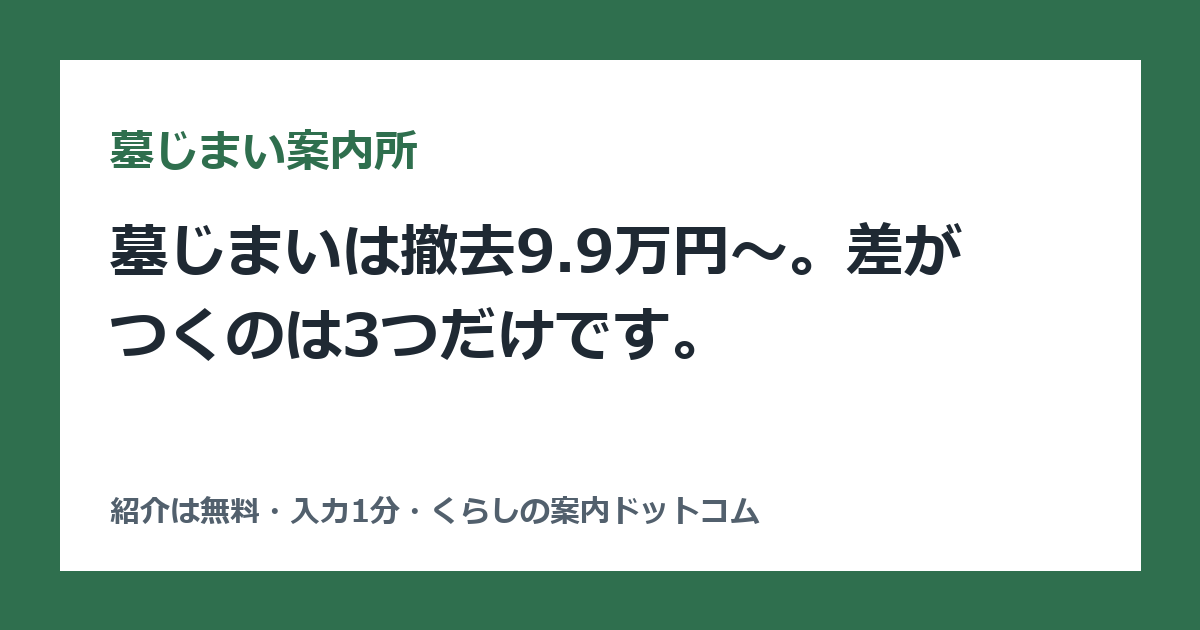
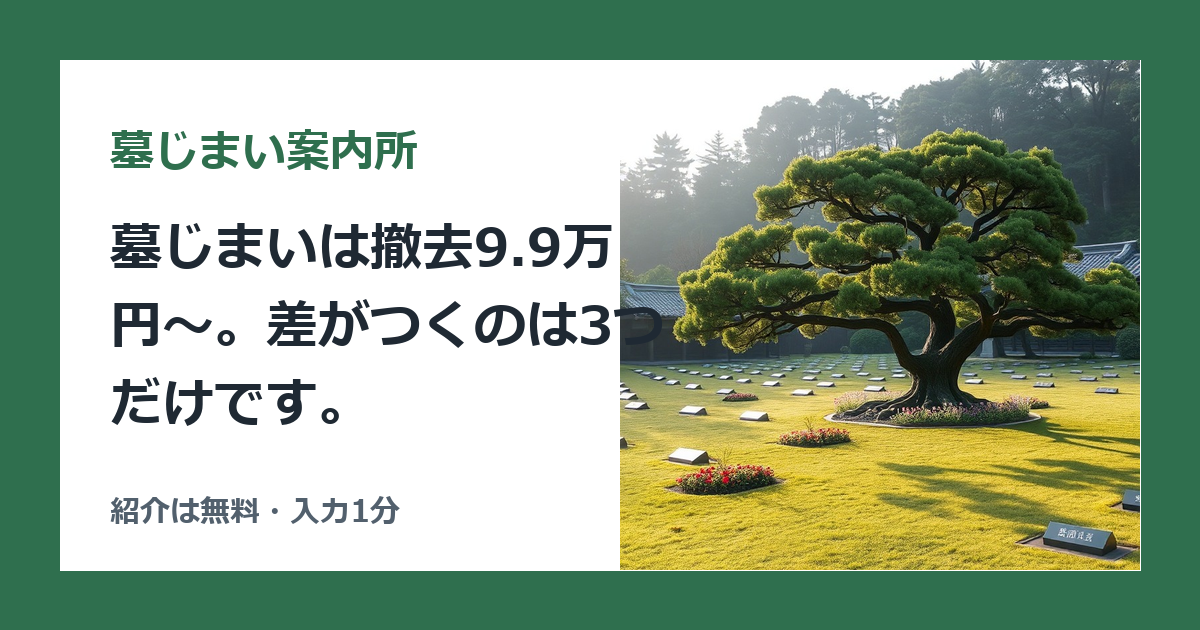
v28: 視覚モード（写真・アイコン・関係図・内訳の横棒・工程・FV段階式フォーム・都道府県→市区町村）

diff --git a/index.html b/index.html
@@ -188,9 +188,99 @@ footer a{color:var(--sub)}
 .ui-reveal .card.in,.ui-reveal ol.steps li.in,.ui-reveal .checks li.in{opacity:1;transform:none}
 body.has-sticky{padding-bottom:72px}
 @media (min-width:600px){.cta-row{grid-template-columns:1fr 1fr}}
+
+/* ---- 視覚モード（visual:true） ---- */
+.v .wrap{max-width:880px}
+.v .hero{display:grid;gap:18px;padding:24px 0 16px}
+.v .hero-media{margin:0;border-radius:16px;overflow:hidden;background:var(--soft);aspect-ratio:16/10}
+.v .hero-media img{display:block;width:100%;height:100%;object-fit:cover}
+.v .hero h1{font-size:27px}
+@media (min-width:800px){.v .hero{grid-template-columns:1.15fr 1fr;align-items:center;padding:36px 0 26px}.v .hero-media{aspect-ratio:auto;height:100%;min-height:320px}.v .hero h1{font-size:34px}}
+.v .checks.two{grid-template-columns:1fr}
+@media (min-width:640px){.v .checks.two{grid-template-columns:1fr 1fr}}
+.v .checks li.ico{padding-left:52px}
+.v .checks li.ico::before{content:none}
+.v .checks li.ico .ic{position:absolute;left:12px;top:9px;width:28px;height:28px;color:var(--accent)}
+.ic{display:inline-block}
+.ic svg{width:100%;height:100%;display:block}
+.v .card{position:relative}
+.v .card>.ic{width:40px;height:40px;color:var(--accent);background:var(--soft);border-radius:10px;padding:8px;margin:0 0 10px}
+@media (min-width:640px){.v .cards.two{grid-template-columns:1fr 1fr}.v .cards.three{grid-template-columns:1fr 1fr 1fr}}
+.v .risk-card .ic{width:30px;height:30px;color:#b42318;margin:0 0 6px}
+figure.ph{margin:14px 0 0;border-radius:14px;overflow:hidden;background:var(--soft);border:1px solid var(--line)}
+figure.ph img{display:block;width:100%;height:auto}
+figure.ph figcaption{font-size:13px;color:var(--sub);padding:8px 12px;background:#fff;border-top:1px solid var(--line)}
+.sub-h{font-size:16px;margin:18px 0 8px;color:var(--ink)}
+.stepper{list-style:none;padding:0;margin:0;counter-reset:st;display:grid;gap:0}
+.stepper li{position:relative;padding:0 0 22px 58px;min-height:52px}
+.stepper li::before{counter-increment:st;content:counter(st);position:absolute;left:0;top:0;width:42px;height:42px;border-radius:50%;background:var(--accent);color:#fff;font-weight:800;font-size:18px;display:flex;align-items:center;justify-content:center;z-index:1}
+.stepper li::after{content:"";position:absolute;left:20px;top:42px;bottom:0;width:2px;background:var(--line)}
+.stepper li:last-child::after{display:none}
+.stepper li>.ic{display:none}
+.stepper b{display:block;font-size:16px;margin:9px 0 2px}
+.stepper span{display:block;font-size:14px;color:var(--sub)}
+.stepper small{display:block;color:var(--sub);font-size:13px;margin-top:4px}
+@media (min-width:720px){.stepper{grid-template-columns:repeat(var(--n,3),1fr);gap:16px}.stepper li{padding:0 6px 0 0;text-align:center}.stepper li::before{position:static;margin:0 auto}.stepper li::after{left:calc(50% + 24px);right:calc(-50% + 24px);top:20px;bottom:auto;height:2px;width:auto}.stepper li>.ic{display:block;width:34px;height:34px;color:var(--accent);margin:10px auto 0}.stepper b{margin-top:6px}}
+.tl{display:grid;gap:8px;margin:10px 0 0;padding:0;list-style:none;counter-reset:tl}
+.tl li{display:grid;grid-template-columns:34px 1fr;gap:10px;align-items:start;background:#fff;border:1px solid var(--line);border-radius:10px;padding:10px 12px}
+.tl li>.ic{width:34px;height:34px;color:var(--accent);background:var(--soft);border-radius:8px;padding:6px}
+.tl b{display:block;font-size:15px}
+.tl b::before{counter-increment:tl;content:counter(tl) ". ";color:var(--accent)}
+.tl span{display:block;font-size:13px;color:var(--sub)}
+@media (min-width:720px){.tl{grid-template-columns:repeat(var(--n,5),1fr)}.tl li{grid-template-columns:1fr;text-align:center;justify-items:center;padding:12px 8px}}
+.bk{margin:12px 0 0}
+.bk ol{list-style:none;padding:0;margin:8px 0 0;display:grid;gap:10px}
+.bk li{background:#fff;border:1px solid var(--line);border-radius:10px;padding:10px 12px}
+.bk-h{display:flex;flex-wrap:wrap;align-items:baseline;gap:4px 10px;margin:0 0 6px}
+.bk-h b{font-size:15px}
+.bk-h span{font-size:12px;color:var(--sub)}
+.bk-r{display:grid;grid-template-columns:1fr auto;gap:10px;align-items:center}
+.bk-t{display:block;height:16px;background:#eef1f4;border-radius:999px;overflow:hidden}
+.bk-t i{display:block;height:100%;border-radius:999px}
+.bk-a{font-size:15px;white-space:nowrap;color:var(--ink)}
+@media (min-width:720px){.bk li{display:grid;grid-template-columns:16em 1fr;gap:10px;align-items:center}.bk-h{margin:0;display:block}.bk-h span{display:block}}
+.factors{list-style:none;padding:0;margin:10px 0 0;display:grid;gap:8px;grid-template-columns:1fr 1fr}
+.factors li{background:#fff;border:1px solid var(--line);border-radius:10px;padding:10px 8px;font-size:13px;text-align:center;line-height:1.5}
+.factors li>.ic{display:block;width:30px;height:30px;color:var(--accent);margin:0 auto 4px}
+@media (min-width:640px){.factors{grid-template-columns:repeat(4,1fr)}}
+.badges li.ico{display:inline-flex;align-items:center;gap:6px}
+.badges li>.ic{width:16px;height:16px;color:var(--accent)}
+.v .points{gap:10px}
+@media (min-width:640px){.v .points.two{grid-template-columns:1fr 1fr}}
+/* FV の段階式フォーム */
+.fvf{background:#fff;border:2px solid var(--accent);border-radius:14px;padding:14px 14px 12px;margin:14px 0 8px;box-shadow:0 8px 24px rgba(11,95,255,.10)}
+.fvf-t{margin:0 0 8px;font-weight:700;font-size:15px}
+.fvf-grid{display:grid;gap:8px}
+.fvf label{margin:0;font-size:13px;font-weight:700}
+.fvf-step{display:inline-block;background:var(--accent);color:#fff;font-size:11px;border-radius:999px;padding:1px 8px;margin:0 6px 4px 0;vertical-align:middle}
+.fvf select{margin-top:2px;padding:11px 10px;font-size:16px}
+.fvf-btn{width:100%;display:block;margin:12px 0 0;font-size:17px;padding:15px 16px;border:0;cursor:pointer}
+.fvf-note{margin:8px 0 0;text-align:center}
+@media (min-width:800px){.v .hero.has-fvf{grid-template-columns:1fr 1fr}}
+/* 関係図 */
+figure.rel{margin:14px 0 0;background:#fff;border:1px solid var(--line);border-radius:14px;padding:10px}
+figure.rel svg{display:block;width:100%;height:auto}
+/* 補助金の帯 */
+.hojo{margin:16px 0 0;border-radius:14px;overflow:hidden;border:1px solid var(--line);background:#fff}
+.hojo-in{background:#14305e;background-image:repeating-conic-gradient(from 0deg at 50% 120%,rgba(255,255,255,.06) 0deg 6deg,transparent 6deg 12deg);color:#fff;padding:18px 16px;text-align:center;display:grid;gap:4px}
+.hojo-l{font-size:14px;font-weight:700;opacity:.95}
+.hojo-big{font-size:38px;font-weight:900;color:#ffd83d;line-height:1.1;letter-spacing:.01em}
+.hojo-s{font-size:12px;opacity:.9}
+.hojo-b{margin:0;padding:12px 14px 4px;font-size:15px}
+.hojo .note{padding:0 14px 12px;margin:0}
+@media (min-width:640px){.hojo-big{font-size:46px}}
+/* 金額つき事例 */
+.ex{list-style:none;padding:0;margin:10px 0 0;display:grid;gap:8px}
+.ex li{background:#fff;border:1px solid var(--line);border-radius:10px;padding:12px 14px;display:grid;grid-template-columns:auto 1fr;gap:2px 12px;align-items:baseline}
+.ex b{font-size:20px;color:var(--accent);grid-row:1 / span 2;align-self:center;white-space:nowrap}
+.ex span{font-size:14px;font-weight:700}
+.ex em{font-style:normal;font-size:13px;color:var(--sub)}
+.ex small{grid-column:1 / -1;font-size:12px;color:var(--sub)}
+@media (min-width:640px){.ex{grid-template-columns:1fr 1fr}}
+
 </style>
 </head>
-<body data-page="lp" class="ui-shine ui-pulse">
+<body data-page="lp" class="ui-shine ui-pulse v">
 <script>
 (function(){
   if (document.readyState === 'loading') { document.addEventListener('DOMContentLoaded', arguments.callee); return; }
@@ -218,24 +308,28 @@ body.has-sticky{padding-bottom:72px}
 <header><div class="wrap"><div class="brand"><span class="name">墓じまい案内所</span><a class="cta small" href="#form">無料で見積</a></div></div></header>
 
 <div class="wrap">
-<div class="hero">
+<div class="hero has-fvf">
+<div class="hero-text">
 <h1>墓じまいは撤去9.9万円〜。差がつくのは3つだけです。</h1>
 <p>お墓が遠くても、ご自身が県外でも手配できます。現地の立会いは不要。内訳と手順を先にお見せするので、相場より高い見積に気づけます。</p>
-<div class="cta-row"><a class="cta" href="#form">無料で見積を手配する</a></div>
-<ul class="badges"><li>紹介は無料</li><li>入力1分</li><li>全国対応・県外にお住まいでも</li></ul>
+<ul class="badges"><li class="ico"><span class="ic"><svg viewBox="0 0 24 24" fill="none" stroke="currentColor" stroke-width="1.8" stroke-linecap="round" stroke-linejoin="round" aria-hidden="true"><path d="M5 12l5 5 9-10"/></svg></span>紹介は無料</li><li class="ico"><span class="ic"><svg viewBox="0 0 24 24" fill="none" stroke="currentColor" stroke-width="1.8" stroke-linecap="round" stroke-linejoin="round" aria-hidden="true"><circle cx="12" cy="12" r="9"/><path d="M12 7v5l3 2"/></svg></span>入力1分</li><li class="ico"><span class="ic"><svg viewBox="0 0 24 24" fill="none" stroke="currentColor" stroke-width="1.8" stroke-linecap="round" stroke-linejoin="round" aria-hidden="true"><path d="M12 21s-6-6-6-11a6 6 0 0112 0c0 5-6 11-6 11z"/><circle cx="12" cy="10" r="2"/></svg></span>全国対応・県外にお住まいでも</li><li class="ico"><span class="ic"><svg viewBox="0 0 24 24" fill="none" stroke="currentColor" stroke-width="1.8" stroke-linecap="round" stroke-linejoin="round" aria-hidden="true"><circle cx="12" cy="12" r="9"/><path d="M8 8l8 8M16 8l-8 8"/></svg></span>石材店からの営業電話なし</li></ul>
+<form class="fvf" id="fvform" novalidate><p class="fvf-t">まず、お墓のことだけ教えてください（お名前などは次の画面で）</p><div class="fvf-grid"><label><span class="fvf-step">STEP1</span>お墓の種類<select name="grave_type"><option value="">選んでください</option><option>お寺の墓地</option><option>公営・民営の霊園</option><option>共同墓地・村墓地</option><option>分からない</option></select></label><label><span class="fvf-step">STEP2</span>新しい納骨先<select name="next_place"><option value="">選んでください</option><option>決まっている</option><option>永代供養墓を探している</option><option>樹木葬を探している</option><option>まだ決めていない</option></select></label><label><span class="fvf-step">STEP3</span>お墓のある都道府県<select name="pref"><option value="">選んでください</option><option>北海道</option><option>青森県</option><option>岩手県</option><option>宮城県</option><option>秋田県</option><option>山形県</option><option>福島県</option><option>茨城県</option><option>栃木県</option><option>群馬県</option><option>埼玉県</option><option>千葉県</option><option>東京都</option><option>神奈川県</option><option>新潟県</option><option>富山県</option><option>石川県</option><option>福井県</option><option>山梨県</option><option>長野県</option><option>岐阜県</option><option>静岡県</option><option>愛知県</option><option>三重県</option><option>滋賀県</option><option>京都府</option><option>大阪府</option><option>兵庫県</option><option>奈良県</option><option>和歌山県</option><option>鳥取県</option><option>島根県</option><option>岡山県</option><option>広島県</option><option>山口県</option><option>徳島県</option><option>香川県</option><option>愛媛県</option><option>高知県</option><option>福岡県</option><option>佐賀県</option><option>長崎県</option><option>熊本県</option><option>大分県</option><option>宮崎県</option><option>鹿児島県</option><option>沖縄県</option></select></label></div><button type="submit" class="cta fvf-btn" data-cta="fv_form">無料で見積を手配する（あと1分）</button><p class="note fvf-note">石材店からの営業電話はありません。断るときは、事務局が代わりに伝えます。</p></form>
 <p class="note">紹介は無料です。改葬許可の手続き代行は行いません（行政書士の業務です）。</p>
+</div>
+<figure class="hero-media"><img src="img/hero_jumokuso.jpg" alt="樹木葬の霊園（イメージ）" width="1344" height="768" srcset="img/hero_jumokuso-720.jpg 720w, img/hero_jumokuso.jpg 1400w" sizes="(max-width: 800px) 100vw, 880px" fetchpriority="high"></figure>
 </div>
 
 <section id="pain" data-sec="pain">
 <h2>こんなことで止まっていませんか</h2>
-<ul class="checks"><li>承継する人がいない</li><li>遠くて手入れに行けない</li><li>お寺にどう切り出せばいいか分からない</li><li>離檀料がいくら請求されるか怖い</li><li>遺骨の行き先が決まっていない</li><li>家族の意見がまとまらない</li></ul>
+<ul class="checks two"><li class="ico"><span class="ic"><svg viewBox="0 0 24 24" fill="none" stroke="currentColor" stroke-width="1.8" stroke-linecap="round" stroke-linejoin="round" aria-hidden="true"><circle cx="9" cy="8" r="3"/><circle cx="17" cy="9" r="2.5"/><path d="M3 20c0-4 3-6 6-6s6 2 6 6"/><path d="M15 20c0-3 1.5-5 4-5 1.5 0 3 1 3 3v2"/></svg></span>承継する人がいない</li><li class="ico"><span class="ic"><svg viewBox="0 0 24 24" fill="none" stroke="currentColor" stroke-width="1.8" stroke-linecap="round" stroke-linejoin="round" aria-hidden="true"><path d="M12 21s-6-6-6-11a6 6 0 0112 0c0 5-6 11-6 11z"/><circle cx="12" cy="10" r="2"/></svg></span>遠くて手入れに行けない</li><li class="ico"><span class="ic"><svg viewBox="0 0 24 24" fill="none" stroke="currentColor" stroke-width="1.8" stroke-linecap="round" stroke-linejoin="round" aria-hidden="true"><rect x="4" y="3" width="16" height="18" rx="1"/><path d="M9 7h2M13 7h2M9 11h2M13 11h2M9 15h2M13 15h2"/><path d="M10 21v-3h4v3"/></svg></span>お寺にどう切り出せばいいか分からない</li><li class="ico"><span class="ic"><svg viewBox="0 0 24 24" fill="none" stroke="currentColor" stroke-width="1.8" stroke-linecap="round" stroke-linejoin="round" aria-hidden="true"><path d="M7 4l5 7 5-7"/><path d="M12 11v9"/><path d="M8 13h8"/><path d="M8 17h8"/></svg></span>離檀料がいくら請求されるか怖い</li><li class="ico"><span class="ic"><svg viewBox="0 0 24 24" fill="none" stroke="currentColor" stroke-width="1.8" stroke-linecap="round" stroke-linejoin="round" aria-hidden="true"><circle cx="11" cy="11" r="6"/><path d="M20 20l-4.5-4.5"/></svg></span>遺骨の行き先が決まっていない</li><li class="ico"><span class="ic"><svg viewBox="0 0 24 24" fill="none" stroke="currentColor" stroke-width="1.8" stroke-linecap="round" stroke-linejoin="round" aria-hidden="true"><path d="M12 3v18"/><path d="M4 8h5l-2.5 6z"/><path d="M15 8h5l-2.5 6z"/><path d="M6.5 14a2.5 2.5 0 005 0M17.5 14a2.5 2.5 0 005 0" transform="translate(-2 0)"/></svg></span>家族の意見がまとまらない</li></ul>
+<figure class="ph"><img src="img/cemetery_old.jpg" alt="手入れが途絶えたお墓（イメージ）" width="1344" height="768" srcset="img/cemetery_old-720.jpg 720w, img/cemetery_old.jpg 1400w" sizes="(max-width: 800px) 100vw, 880px" loading="lazy" decoding="async"><figcaption>手入れが途絶えると、苔と落ち葉で覆われていきます（イメージ）</figcaption></figure>
 </section>
 
-<section class="risk-box" id="risk" data-sec="risk">
+<!--RISK--><section class="risk-box" id="risk" data-sec="risk">
 <h2>放っておくと、こうなります。</h2>
-<div class="risk-cards"><div class="risk-card"><div class="big">遺骨は合葬へ</div><b>「無縁墓」として撤去される</b><span>連絡が取れないまま管理料の滞納が続くと、官報と立札で1年公告したうえで墓地側が撤去し、遺骨は合葬墓へ移せる決まりです（墓地埋葬法の施行規則）。合葬されると、取り出せません。</span></div><div class="risk-card"><div class="big">5年で取消</div><b>管理料の滞納で使用権を失う</b><span>都立霊園は管理料を5年滞納すると使用許可が取り消されます（東京都霊園条例）。民営や寺院の墓地も、規約で同じ仕組みを持つところが多くあります。</span></div><div class="risk-card"><div class="big">毎年かかる</div><b>管理料と帰省の費用は止まらない</b><span>年間の管理料は数千円〜2万円ほど。お寺なら護持会費や寄付が加わります。年1回の帰省と掃除の交通費を足すと、10年で数十万円になります。</span></div><div class="risk-card"><div class="big">倒れたら責任</div><b>荒れた墓石が隣に倒れたら</b><span>地震や劣化で墓石が倒れ、隣のお墓や人に被害が出れば、使用者が責任を問われることがあります（民法の工作物責任）。</span></div><div class="risk-card"><div class="big">次の世代へ</div><b>決めないままだと、子や甥姪が背負う</b><span>何も決めないまま代が変わると、手続きも費用も、残った家族が知らない土地で背負います。承継する人がいないお墓ほど、決められるのは今だけです。</span></div></div>
+<div class="risk-cards"><div class="risk-card"><span class="ic"><svg viewBox="0 0 24 24" fill="none" stroke="currentColor" stroke-width="1.8" stroke-linecap="round" stroke-linejoin="round" aria-hidden="true"><path d="M12 3l10 18H2z"/><path d="M12 10v4"/><circle cx="12" cy="17" r=".9" fill="currentColor"/></svg></span><div class="big">遺骨は合葬へ</div><b>「無縁墓」として撤去される</b><span>連絡が取れないまま管理料の滞納が続くと、官報と立札で1年公告したうえで墓地側が撤去し、遺骨は合葬墓へ移せる決まりです（墓地埋葬法の施行規則）。合葬されると、取り出せません。</span></div><div class="risk-card"><span class="ic"><svg viewBox="0 0 24 24" fill="none" stroke="currentColor" stroke-width="1.8" stroke-linecap="round" stroke-linejoin="round" aria-hidden="true"><rect x="3" y="5" width="18" height="16" rx="2"/><path d="M3 10h18"/><path d="M8 3v4M16 3v4"/></svg></span><div class="big">5年で取消</div><b>管理料の滞納で使用権を失う</b><span>都立霊園は管理料を5年滞納すると使用許可が取り消されます（東京都霊園条例）。民営や寺院の墓地も、規約で同じ仕組みを持つところが多くあります。</span></div><div class="risk-card"><span class="ic"><svg viewBox="0 0 24 24" fill="none" stroke="currentColor" stroke-width="1.8" stroke-linecap="round" stroke-linejoin="round" aria-hidden="true"><path d="M7 4l5 7 5-7"/><path d="M12 11v9"/><path d="M8 13h8"/><path d="M8 17h8"/></svg></span><div class="big">毎年かかる</div><b>管理料と帰省の費用は止まらない</b><span>年間の管理料は数千円〜2万円ほど。お寺なら護持会費や寄付が加わります。年1回の帰省と掃除の交通費を足すと、10年で数十万円になります。</span></div><div class="risk-card"><span class="ic"><svg viewBox="0 0 24 24" fill="none" stroke="currentColor" stroke-width="1.8" stroke-linecap="round" stroke-linejoin="round" aria-hidden="true"><path d="M13 4l7 7"/><path d="M10 7l7 7"/><path d="M4 20l7-7"/><path d="M3 21h8"/></svg></span><div class="big">倒れたら責任</div><b>荒れた墓石が隣に倒れたら</b><span>地震や劣化で墓石が倒れ、隣のお墓や人に被害が出れば、使用者が責任を問われることがあります（民法の工作物責任）。</span></div><div class="risk-card"><span class="ic"><svg viewBox="0 0 24 24" fill="none" stroke="currentColor" stroke-width="1.8" stroke-linecap="round" stroke-linejoin="round" aria-hidden="true"><circle cx="9" cy="8" r="3"/><circle cx="17" cy="9" r="2.5"/><path d="M3 20c0-4 3-6 6-6s6 2 6 6"/><path d="M15 20c0-3 1.5-5 4-5 1.5 0 3 1 3 3v2"/></svg></span><div class="big">次の世代へ</div><b>決めないままだと、子や甥姪が背負う</b><span>何も決めないまま代が変わると、手続きも費用も、残った家族が知らない土地で背負います。承継する人がいないお墓ほど、決められるのは今だけです。</span></div></div>
 <p class="risk-close">急がせるつもりはありません。ただ、お墓の場合は、決められる人が年ごとに減っていきます。順番だけは、先に決めておいてください。</p>
-</section>
+</section><!--/RISK-->
 
 <p class="bridge">ここまで読んで、胸が重くなった方へ。</p>
 <section class="relief" id="relief" data-sec="relief">
@@ -245,6 +339,7 @@ body.has-sticky{padding-bottom:72px}
 
 <ul class="points"><li><b>お寺への切り出しは、一緒に</b><span>「遠方で管理が難しくなり、供養を続けられる形に変えたい」。伝え方の例文をお渡しし、石材店が相談に同席することもできます。</span></li><li><b>遠くても、立会いなしで</b><span>区画のサイズと写真で概算が出ます。現地に行けなくても進みます。</span></li><li><b>納骨先が決まっていなくても</b><span>永代供養・樹木葬・手元供養の費用の幅と選び方から、一緒に整理します。</span></li><li><b>家族の意見がまとまっていなくても</b><span>費用の内訳と手順を1枚にして、家族で共有できる形にします。</span></li></ul>
 </div>
+<figure class="rel"><svg viewBox="0 0 760 250" xmlns="http://www.w3.org/2000/svg" role="img" aria-label="お客様と案内所と登録業者の関係図"><defs><marker id="ah" viewBox="0 0 10 10" refX="9" refY="5" markerWidth="7" markerHeight="7" orient="auto-start-reverse"><path d="M0 0L10 5L0 10z" fill="#2f6f4e"/></marker><marker id="ag" viewBox="0 0 10 10" refX="9" refY="5" markerWidth="7" markerHeight="7" orient="auto-start-reverse"><path d="M0 0L10 5L0 10z" fill="#8a94a0"/></marker></defs><g><rect x="10" y="80" width="130" height="64" rx="12" fill="#2f6f4e"/><text x="75" y="119" text-anchor="middle" font-size="17" font-weight="700" fill="#fff">あなた</text></g><g><rect x="260" y="56" width="180" height="112" rx="12" fill="#fff" stroke="#2f6f4e" stroke-width="2"/><text x="350" y="96" text-anchor="middle" font-size="15" font-weight="700" fill="#1f2933">墓じまい案内所（事務局）</text><text x="350" y="124" text-anchor="middle" font-size="12" fill="#52606d">お墓のある地域の石材店に絞る</text><text x="350" y="146" text-anchor="middle" font-size="12" fill="#52606d">断りも値下げの相談も間に入る</text></g><g transform="translate(580,20)"><rect x="0" y="0" width="170" height="44" rx="8" fill="#fff" stroke="#cbd2d9"/><text x="85" y="28" text-anchor="middle" font-size="14" fill="#1f2933">石材店 A</text></g><g transform="translate(580,80)"><rect x="0" y="0" width="170" height="44" rx="8" fill="#fff" stroke="#cbd2d9"/><text x="85" y="28" text-anchor="middle" font-size="14" fill="#1f2933">石材店 B</text></g><g transform="translate(580,140)"><rect x="0" y="0" width="170" height="44" rx="8" fill="#fff" stroke="#cbd2d9"/><text x="85" y="28" text-anchor="middle" font-size="14" fill="#1f2933">石材店 C</text></g><path d="M144 96 H254" stroke="#2f6f4e" stroke-width="2.5" marker-end="url(#ah)"/><text x="199" y="86" text-anchor="middle" font-size="12" fill="#1f2933">相談を送る（1分）</text><path d="M254 130 H144" stroke="#8a94a0" stroke-width="2.5" marker-end="url(#ag)"/><text x="199" y="152" text-anchor="middle" font-size="12" fill="#52606d">比べて決める</text><path d="M444 96 H574" stroke="#2f6f4e" stroke-width="2.5" marker-end="url(#ah)"/><text x="509" y="86" text-anchor="middle" font-size="12" fill="#1f2933">最大3社を手配</text><path d="M574 130 H444" stroke="#8a94a0" stroke-width="2.5" marker-end="url(#ag)"/><text x="509" y="152" text-anchor="middle" font-size="12" fill="#52606d">内訳つきの見積</text><text x="380" y="232" text-anchor="middle" font-size="13" font-weight="700" fill="#1f2933">石材店からあなたへ、営業の電話は行きません。断るときは、事務局が代わりに伝えます。</text></svg></figure><figure class="ph"><img src="img/temple.jpg" alt="お寺の境内（イメージ）" width="1344" height="768" srcset="img/temple-720.jpg 720w, img/temple.jpg 1400w" sizes="(max-width: 800px) 100vw, 880px" loading="lazy" decoding="async"><figcaption>お寺への相談は、伝え方の例文をお渡しし、石材店が同席することもできます（イメージ）</figcaption></figure>
 <div class="rescue"><p class="rescue-t">そうなる前に、無料で相談してみませんか。</p><a class="cta" href="#form">無料で見積を手配する</a><p class="note">紹介は無料・入力1分・断っても費用はかかりません・しつこい営業はしません</p></div>
 </section>
 
@@ -254,13 +349,14 @@ body.has-sticky{padding-bottom:72px}
 
 <section id="reasons" data-sec="reasons">
 <h2>墓じまい案内所でできること</h2>
-<div class="cards"><div class="card"><b>撤去から納骨先まで、まとめて相談できる石材店を手配</b><div class="note">墓石の撤去だけでなく、閉眼供養の手配、改葬許可の書類の案内、新しい納骨先の相談まで対応できるお墓のある地域の石材店をお渡しします。相談先を分けて探す必要がありません。</div></div><div class="card"><b>県外からでも、立会いなしで進む</b><div class="note">区画のサイズと写真で概算の見積ができます。現地に行けなくても進められ、立会いが要る場面は石材店から事前に相談があります。</div></div><div class="card"><b>相場と順番を先に見せる</b><div class="note">総額35万〜150万円の内訳と手順を先にお見せします。相場より高い見積に気づけます。紹介は無料、断っても費用はかかりません。</div></div></div>
+<div class="cards three"><div class="card"><span class="ic"><svg viewBox="0 0 24 24" fill="none" stroke="currentColor" stroke-width="1.8" stroke-linecap="round" stroke-linejoin="round" aria-hidden="true"><path d="M14 6l4 4-8 8-4-4z"/><path d="M6 14l-3 3 4 4 3-3"/><path d="M14 6l3-3 4 4-3 3"/></svg></span><b>撤去から納骨先まで、まとめて相談できる石材店を手配</b><div class="note">墓石の撤去だけでなく、閉眼供養の手配、改葬許可の書類の案内、新しい納骨先の相談まで対応できるお墓のある地域の石材店をお渡しします。相談先を分けて探す必要がありません。</div></div><div class="card"><span class="ic"><svg viewBox="0 0 24 24" fill="none" stroke="currentColor" stroke-width="1.8" stroke-linecap="round" stroke-linejoin="round" aria-hidden="true"><path d="M12 21s-6-6-6-11a6 6 0 0112 0c0 5-6 11-6 11z"/><circle cx="12" cy="10" r="2"/></svg></span><b>県外からでも、立会いなしで進む</b><div class="note">区画のサイズと写真で概算の見積ができます。現地に行けなくても進められ、立会いが要る場面は石材店から事前に相談があります。</div></div><div class="card"><span class="ic"><svg viewBox="0 0 24 24" fill="none" stroke="currentColor" stroke-width="1.8" stroke-linecap="round" stroke-linejoin="round" aria-hidden="true"><path d="M6 3h8l4 4v14H6z"/><path d="M14 3v4h4"/><path d="M9 12h6M9 16h6"/></svg></span><b>相場と順番を先に見せる</b><div class="note">総額35万〜150万円の内訳と手順を先にお見せします。相場より高い見積に気づけます。紹介は無料、断っても費用はかかりません。</div></div></div>
 </section>
 
 <section id="money" data-sec="money">
 <h2>費用の内訳（差がつく3つ）</h2>
 <div class="money-lead"><p>先に内訳を知っておくと、損をしません</p><ul><li>「一式」の見積は、相場より高くても気づけません。撤去・手続き・納骨先の3つに分けて見ます</li><li>離檀料に決まった額はありません。相場を知らずに言い値で払う方がいます</li><li>納骨先を決める前に撤去すると、遺骨の置き場所に困って二度手間になります。順番が大事です</li></ul></div>
-<div class="cmp"><p class="cmp-t">同じお墓でも、頼み方で総額が変わります</p><p class="cmp-lead">1社に直接頼むと、「一式」の見積しか出ません。案内所は、撤去・手続き・納骨先に分けて、最大3社の見積で並べます。</p><div class="cmp-head"><span></span><span class="c1">1社に直接頼むと</span><span class="c2">案内所で並べると</span></div><div class="cmp-row"><div class="cmp-k">撤去費</div><p class="cmp-a"><i>1社に直接頼むと</i>「一式○○万円」。相場より高くても気づけない</p><p class="cmp-b"><i>案内所で並べると</i>㎡単価と内訳で、最大3社を並べて比べられます</p></div><div class="cmp-row"><div class="cmp-k">離檀料</div><p class="cmp-a"><i>1社に直接頼むと</i>決まった額がないまま、言い値で払う</p><p class="cmp-b"><i>案内所で並べると</i>相場と伝え方の例を先にお渡し。石材店が相談に同席することもできます</p></div><div class="cmp-row"><div class="cmp-k">納骨先</div><p class="cmp-a"><i>1社に直接頼むと</i>撤去してから探して、遺骨の置き場所に困る</p><p class="cmp-b"><i>案内所で並べると</i>先に納骨先の費用の幅を整理してから撤去。順番で無駄が出ません</p></div><div class="cmp-row"><div class="cmp-k">手続き</div><p class="cmp-a"><i>1社に直接頼むと</i>改葬許可やお寺への連絡を、自分で調べながら進める</p><p class="cmp-b"><i>案内所で並べると</i>手順を1枚にまとめ、石材店に任せられる範囲もお伝えします</p></div><p class="cmp-close">先に並べてから決める。それが、費用の面で損をしない順番です。</p></div><ul class="facts"><li>総額の相場は35万〜150万円。差がつくのは上の3つです</li></ul><div class="cards" style="margin-top:12px"><div class="card"><b>① 墓石の撤去・整地</b><div class="range">90×90cmで9.9万円〜（新潟の石材店の例）・1㎡あたり10万〜15万円が目安</div><div class="note">区画の広さ・墓石の大きさ・重機が入るかで変わる。ここが見積の大半。価格を公開している石材店の下限の例です</div></div><div class="card"><b>② 手続き（改葬許可・お寺への連絡）</b><div class="range">役所の手数料は無料〜数百円。離檀料とお布施はお寺による</div><div class="note">改葬許可証は今のお墓がある市町村の役場で。お寺には先に相談を。離檀料に法律で決まった額はなく、3万〜20万円ほどが多い。閉眼供養のお布施は3万〜10万円ほど</div></div><div class="card"><b>③ 新しい納骨先</b><div class="range">樹木葬は平均約72万円・合祀型の永代供養墓は数万円〜</div><div class="note">鎌倉新書の調査（2026年）で樹木葬の平均購入金額は71.7万円。ここを先に決めないと総額が決まらない。実家の近くか、今お住まいの近くか</div></div></div>
+<div class="cmp"><p class="cmp-t">同じお墓でも、頼み方で総額が変わります</p><p class="cmp-lead">1社に直接頼むと、「一式」の見積しか出ません。案内所は、撤去・手続き・納骨先に分けて、最大3社の見積で並べます。</p><div class="cmp-head"><span></span><span class="c1">1社に直接頼むと</span><span class="c2">案内所で並べると</span></div><div class="cmp-row"><div class="cmp-k">撤去費</div><p class="cmp-a"><i>1社に直接頼むと</i>「一式○○万円」。相場より高くても気づけない</p><p class="cmp-b"><i>案内所で並べると</i>㎡単価と内訳で、最大3社を並べて比べられます</p></div><div class="cmp-row"><div class="cmp-k">離檀料</div><p class="cmp-a"><i>1社に直接頼むと</i>決まった額がないまま、言い値で払う</p><p class="cmp-b"><i>案内所で並べると</i>相場と伝え方の例を先にお渡し。石材店が相談に同席することもできます</p></div><div class="cmp-row"><div class="cmp-k">納骨先</div><p class="cmp-a"><i>1社に直接頼むと</i>撤去してから探して、遺骨の置き場所に困る</p><p class="cmp-b"><i>案内所で並べると</i>先に納骨先の費用の幅を整理してから撤去。順番で無駄が出ません</p></div><div class="cmp-row"><div class="cmp-k">手続き</div><p class="cmp-a"><i>1社に直接頼むと</i>改葬許可やお寺への連絡を、自分で調べながら進める</p><p class="cmp-b"><i>案内所で並べると</i>手順を1枚にまとめ、石材店に任せられる範囲もお伝えします</p></div><p class="cmp-close">先に並べてから決める。それが、費用の面で損をしない順番です。</p></div><ul class="facts"><li>総額の相場は35万〜150万円。差がつくのは、撤去・手続き・納骨先の3つです</li></ul><div class="cards" style="margin-top:12px"><div class="card"><b>① 墓石の撤去・整地</b><div class="range">90×90cmで9.9万円〜（新潟の石材店の例）・1㎡あたり10万〜15万円が目安</div><div class="note">区画の広さ・墓石の大きさ・重機が入るかで変わる。ここが見積の大半。価格を公開している石材店の下限の例です</div></div><div class="card"><b>② 手続き（改葬許可・お寺への連絡）</b><div class="range">役所の手数料は無料〜数百円。離檀料とお布施はお寺による</div><div class="note">改葬許可証は今のお墓がある市町村の役場で。お寺には先に相談を。離檀料に法律で決まった額はなく、3万〜20万円ほどが多い。閉眼供養のお布施は3万〜10万円ほど</div></div><div class="card"><b>③ 新しい納骨先</b><div class="range">樹木葬は平均約72万円・合祀型の永代供養墓は数万円〜</div><div class="note">鎌倉新書の調査（2026年）で樹木葬の平均購入金額は71.7万円。ここを先に決めないと総額が決まらない。実家の近くか、今お住まいの近くか</div></div></div>
+<div class="bk"><h3 class="sub-h">総額は、この5つに分かれます</h3><p>一般的なお墓（1〜3㎡）の目安。差がつくのは撤去・離檀料・納骨先の3つです。</p><ol><li><div class="bk-h"><b>墓石の撤去・整地</b><span>1㎡あたり10万〜15万円が目安。区画の広さと重機が入るかで決まる</span></div><div class="bk-r"><span class="bk-t"><i style="width:100%;background:#2f6f4e;opacity:1"></i></span><b class="bk-a">10万〜45万円</b></div></li><li><div class="bk-h"><b>新しい納骨先</b><span>合祀型の永代供養墓は数万円〜。樹木葬は平均71.7万円（鎌倉新書 2026年）</span></div><div class="bk-r"><span class="bk-t"><i style="width:89%;background:#2f6f4e;opacity:0.8"></i></span><b class="bk-a">数万〜70万円台</b></div></li><li><div class="bk-h"><b>離檀料</b><span>法律で決まった額はない。3万〜20万円ほどが多い。霊園なら不要</span></div><div class="bk-r"><span class="bk-t"><i style="width:33%;background:#2f6f4e;opacity:0.62"></i></span><b class="bk-a">0〜20万円</b></div></li><li><div class="bk-h"><b>閉眼供養のお布施</b><span>魂抜きの法要。お寺との関係で変わる</span></div><div class="bk-r"><span class="bk-t"><i style="width:18%;background:#2f6f4e;opacity:0.46"></i></span><b class="bk-a">3万〜10万円</b></div></li><li><div class="bk-h"><b>役所の手数料</b><span>改葬許可証（今のお墓がある市町村）</span></div><div class="bk-r"><span class="bk-t"><i style="width:2%;background:#2f6f4e;opacity:0.34"></i></span><b class="bk-a">無料〜数百円</b></div></li></ol><p class="note">金額は一般的な目安です。地域とお墓の状態で変わります。</p></div><h3 class="sub-h">見積が上がりやすい条件</h3><p>この条件に当てはまるときは、先に伝えておくと、後から足されません。</p><ul class="factors"><li><span class="ic"><svg viewBox="0 0 24 24" fill="none" stroke="currentColor" stroke-width="1.8" stroke-linecap="round" stroke-linejoin="round" aria-hidden="true"><path d="M3 20h18"/><path d="M6 20v-8M12 20v-8M18 20v-8"/><path d="M4 14h16M4 17h16"/></svg></span>区画が広い・墓石が大きい</li><li><span class="ic"><svg viewBox="0 0 24 24" fill="none" stroke="currentColor" stroke-width="1.8" stroke-linecap="round" stroke-linejoin="round" aria-hidden="true"><rect x="4" y="3" width="16" height="18" rx="1"/><path d="M9 7h2M13 7h2M9 11h2M13 11h2M9 15h2M13 15h2"/><path d="M10 21v-3h4v3"/></svg></span>墓石や外柵が複数ある</li><li><span class="ic"><svg viewBox="0 0 24 24" fill="none" stroke="currentColor" stroke-width="1.8" stroke-linecap="round" stroke-linejoin="round" aria-hidden="true"><path d="M4 21l4-18h8l4 18"/><path d="M12 5v3M12 11v3M12 17v3"/></svg></span>山の墓地で、重機が入らない</li><li><span class="ic"><svg viewBox="0 0 24 24" fill="none" stroke="currentColor" stroke-width="1.8" stroke-linecap="round" stroke-linejoin="round" aria-hidden="true"><path d="M3 8l9-4 9 4-9 4z"/><path d="M3 8v8l9 4 9-4V8"/><path d="M12 12v8"/></svg></span>遺骨（骨壺）の数が多い</li><li><span class="ic"><svg viewBox="0 0 24 24" fill="none" stroke="currentColor" stroke-width="1.8" stroke-linecap="round" stroke-linejoin="round" aria-hidden="true"><circle cx="11" cy="11" r="6"/><path d="M20 20l-4.5-4.5"/></svg></span>新しい納骨先が決まっていない</li><li><span class="ic"><svg viewBox="0 0 24 24" fill="none" stroke="currentColor" stroke-width="1.8" stroke-linecap="round" stroke-linejoin="round" aria-hidden="true"><circle cx="9" cy="8" r="3"/><circle cx="17" cy="9" r="2.5"/><path d="M3 20c0-4 3-6 6-6s6 2 6 6"/><path d="M15 20c0-3 1.5-5 4-5 1.5 0 3 1 3 3v2"/></svg></span>複数のお寺にお墓がある</li><li><span class="ic"><svg viewBox="0 0 24 24" fill="none" stroke="currentColor" stroke-width="1.8" stroke-linecap="round" stroke-linejoin="round" aria-hidden="true"><path d="M12 21s-6-6-6-11a6 6 0 0112 0c0 5-6 11-6 11z"/><circle cx="12" cy="10" r="2"/></svg></span>遠方で、立会いが要る場面がある</li><li><span class="ic"><svg viewBox="0 0 24 24" fill="none" stroke="currentColor" stroke-width="1.8" stroke-linecap="round" stroke-linejoin="round" aria-hidden="true"><rect x="3" y="5" width="18" height="16" rx="2"/><path d="M3 10h18"/><path d="M8 3v4M16 3v4"/></svg></span>お盆・彼岸の直前で日程が詰まる</li></ul><p class="note">撤去・離檀料・納骨先。この3つで、同じお墓の総額が数倍変わります。</p><figure class="ph"><img src="img/illust_tree.jpg" alt="樹木葬の霊園（イラスト）" width="1344" height="768" srcset="img/illust_tree-720.jpg 720w, img/illust_tree.jpg 1400w" sizes="(max-width: 800px) 100vw, 880px" loading="lazy" decoding="async"><figcaption>新しい納骨先を先に決めると、総額が決まります</figcaption></figure>
 <p class="note">金額は一般的な目安です。実際の費用は現地の見積で確定します。</p>
 </section>
 
@@ -273,8 +369,9 @@ body.has-sticky{padding-bottom:72px}
 
 <section id="flow" data-sec="flow">
 <h2>流れ（3つ）</h2>
-<ol class="steps"><li><b>フォームで相談する</b> 1分で入力。受付の控えがメールで届きます。</li><li><b>お墓のある地域の石材店から連絡が来る</b> 1〜2営業日を目安に。区画のサイズと写真で概算、必要なら現地で見積。お寺への相談の仕方、改葬許可の書類、納骨先の候補も石材店が案内します。</li><li><b>納得したら依頼する</b> 閉眼供養・撤去・納骨の日程は石材店とお寺で調整。見積を見て納得できなければ断って構いません。費用はかかりません。</li></ol>
+<ol class="stepper" style="--n:3"><li><span class="ic"><svg viewBox="0 0 24 24" fill="none" stroke="currentColor" stroke-width="1.8" stroke-linecap="round" stroke-linejoin="round" aria-hidden="true"><path d="M4 20h4l10-10-4-4L4 16z"/><path d="M12 8l4 4"/></svg></span><b>フォームで相談する</b><span>1分で入力。受付の控えがメールで届きます。</span></li><li><span class="ic"><svg viewBox="0 0 24 24" fill="none" stroke="currentColor" stroke-width="1.8" stroke-linecap="round" stroke-linejoin="round" aria-hidden="true"><path d="M12 21s-6-6-6-11a6 6 0 0112 0c0 5-6 11-6 11z"/><circle cx="12" cy="10" r="2"/></svg></span><b>お墓のある地域の石材店から連絡が来る</b><span>1〜2営業日を目安に。区画のサイズと写真で概算、必要なら現地で見積。お寺への相談の仕方、改葬許可の書類、納骨先の候補も石材店が案内します。</span></li><li><span class="ic"><svg viewBox="0 0 24 24" fill="none" stroke="currentColor" stroke-width="1.8" stroke-linecap="round" stroke-linejoin="round" aria-hidden="true"><path d="M12 3v18"/><path d="M4 8h5l-2.5 6z"/><path d="M15 8h5l-2.5 6z"/><path d="M6.5 14a2.5 2.5 0 005 0M17.5 14a2.5 2.5 0 005 0" transform="translate(-2 0)"/></svg></span><b>納得したら依頼する</b><span>閉眼供養・撤去・納骨の日程は石材店とお寺で調整。見積を見て納得できなければ断って構いません。費用はかかりません。</span></li></ol>
 <p class="note"></p>
+<h3 class="sub-h">納骨まで、こう進みます</h3><p>お寺への相談から納骨まで、2〜3か月が目安。順番を間違えると、遺骨の置き場所に困ります。</p><ol class="tl" style="--n:6"><li><span class="ic"><svg viewBox="0 0 24 24" fill="none" stroke="currentColor" stroke-width="1.8" stroke-linecap="round" stroke-linejoin="round" aria-hidden="true"><rect x="4" y="3" width="16" height="18" rx="1"/><path d="M9 7h2M13 7h2M9 11h2M13 11h2M9 15h2M13 15h2"/><path d="M10 21v-3h4v3"/></svg></span><div><b>お寺・管理者に相談</b><span>伝え方の例文をお渡し。石材店が同席することもできる</span></div></li><li><span class="ic"><svg viewBox="0 0 24 24" fill="none" stroke="currentColor" stroke-width="1.8" stroke-linecap="round" stroke-linejoin="round" aria-hidden="true"><path d="M12 3l6 8h-4l4 6H6l4-6H6z"/><path d="M12 17v4"/></svg></span><div><b>新しい納骨先を決める</b><span>永代供養・樹木葬・納骨堂・手元供養。費用の幅から選ぶ</span></div></li><li><span class="ic"><svg viewBox="0 0 24 24" fill="none" stroke="currentColor" stroke-width="1.8" stroke-linecap="round" stroke-linejoin="round" aria-hidden="true"><path d="M13 4l7 7"/><path d="M10 7l7 7"/><path d="M4 20l7-7"/><path d="M3 21h8"/></svg></span><div><b>改葬許可を申請</b><span>今のお墓がある市町村の役所へ。必要書類は石材店が案内（有償の代理は行政書士の業務）</span></div></li><li><span class="ic"><svg viewBox="0 0 24 24" fill="none" stroke="currentColor" stroke-width="1.8" stroke-linecap="round" stroke-linejoin="round" aria-hidden="true"><path d="M6 3h8l4 4v14H6z"/><path d="M14 3v4h4"/><path d="M9 12h6M9 16h6"/></svg></span><div><b>石材店の見積・契約</b><span>撤去・整地・運搬の内訳つきで、最大3社を比べる</span></div></li><li><span class="ic"><svg viewBox="0 0 24 24" fill="none" stroke="currentColor" stroke-width="1.8" stroke-linecap="round" stroke-linejoin="round" aria-hidden="true"><path d="M14 6l4 4-8 8-4-4z"/><path d="M6 14l-3 3 4 4 3-3"/><path d="M14 6l3-3 4 4-3 3"/></svg></span><div><b>閉眼供養・撤去・整地</b><span>お寺と石材店が日程を調整。遠方なら立会いなしも相談できる</span></div></li><li><span class="ic"><svg viewBox="0 0 24 24" fill="none" stroke="currentColor" stroke-width="1.8" stroke-linecap="round" stroke-linejoin="round" aria-hidden="true"><path d="M8 12l3 3a2 2 0 003 0l4-4"/><path d="M3 9l4-3 4 2 3-2 4 3"/><path d="M3 9v6l5 5"/><path d="M21 9v6l-5 5"/></svg></span><div><b>新しい納骨先へ納骨</b><span>改葬許可証を添えて納骨。ここで完了</span></div></li></ol><p class="note">期間は一般的な目安です。お寺の都合と納骨先の手配で変わります。</p><figure class="ph"><img src="img/nokotsudo.jpg" alt="納骨堂の内部（イメージ）" width="1344" height="768" srcset="img/nokotsudo-720.jpg 720w, img/nokotsudo.jpg 1400w" sizes="(max-width: 800px) 100vw, 880px" loading="lazy" decoding="async"><figcaption>新しい納骨先の例。納骨堂・永代供養墓・樹木葬から、手の届く形を選べます（イメージ）</figcaption></figure>
 </section>
 <div class="cta-inline"><a class="cta" href="#form">無料で見積を手配する</a></div>
 
@@ -299,7 +396,7 @@ body.has-sticky{padding-bottom:72px}
 <input type="hidden" name="gclid" value="">
 <input type="hidden" name="consent_at" value="">
 <div class="hp"><label>会社名<input type="text" name="company" tabindex="-1" autocomplete="off"></label></div>
-<label>お墓の所在地（市町村まで） <span>必須</span></label><input type="text" name="place" required placeholder="例：新潟県長岡市">
+<label>お墓のある都道府県 <span>必須</span></label><select name="pref" required><option value="">選んでください</option><option>北海道</option><option>青森県</option><option>岩手県</option><option>宮城県</option><option>秋田県</option><option>山形県</option><option>福島県</option><option>茨城県</option><option>栃木県</option><option>群馬県</option><option>埼玉県</option><option>千葉県</option><option>東京都</option><option>神奈川県</option><option>新潟県</option><option>富山県</option><option>石川県</option><option>福井県</option><option>山梨県</option><option>長野県</option><option>岐阜県</option><option>静岡県</option><option>愛知県</option><option>三重県</option><option>滋賀県</option><option>京都府</option><option>大阪府</option><option>兵庫県</option><option>奈良県</option><option>和歌山県</option><option>鳥取県</option><option>島根県</option><option>岡山県</option><option>広島県</option><option>山口県</option><option>徳島県</option><option>香川県</option><option>愛媛県</option><option>高知県</option><option>福岡県</option><option>佐賀県</option><option>長崎県</option><option>熊本県</option><option>大分県</option><option>宮崎県</option><option>鹿児島県</option><option>沖縄県</option></select><label>市町村 <span>必須</span></label><input type="text" name="city" required placeholder="例：長岡市" autocomplete="address-level2"><input type="hidden" name="place" value="">
 <label>お名前 <span>必須</span></label>
 <input type="text" name="name" required autocomplete="name">
 <label>電話番号 <span>必須・折り返しのご連絡に使います</span></label>
@@ -337,6 +434,13 @@ window.LP_ENDPOINT = "https://script.google.com/macros/s/AKfycbyX9lsvDTMzTPzCo2D
   if (bar) { document.body.classList.add('has-sticky'); var hero = document.querySelector('.hero');
     function tick(){ var past = hero.getBoundingClientRect().bottom < 0; var atForm = form.getBoundingClientRect().top < window.innerHeight * 0.6; bar.classList.toggle('show', past && !atForm); }
     window.addEventListener('scroll', tick, {passive:true}); tick(); }
+  var fvf = document.getElementById('fvform');
+  if (fvf) { fvf.addEventListener('submit', function(e){ e.preventDefault();
+    var lead = document.getElementById('lead');
+    fvf.querySelectorAll('select').forEach(function(s){ if (!s.value) return; var t = lead.querySelector('[name="' + s.name + '"]'); if (t) t.value = s.value;
+      if (s.name === 'pref') { var p = lead.querySelector('input[type="text"][name="place"]'); if (p && p.value.indexOf(s.value) !== 0) p.value = s.value + (p.value || ''); } });
+    if (typeof gtag === 'function') gtag('event', 'cta_click', { location: 'fv_form', page_kind: 'lp' });
+    location.hash = '#form'; setTimeout(function(){ var n = lead.querySelector('[name="city"]') || lead.querySelector('[name="name"]'); if (n) n.focus({preventScroll:true}); }, 400); }); }
   if (document.body.classList.contains('ui-reveal') && 'IntersectionObserver' in window) {
     var io = new IntersectionObserver(function(es){ es.forEach(function(x){ if (x.isIntersecting) { x.target.classList.add('in'); io.unobserve(x.target); } }); }, {threshold: 0.15});
     document.querySelectorAll('.card, ol.steps li, .checks li').forEach(function(el){ io.observe(el); });
@@ -353,6 +457,8 @@ window.LP_ENDPOINT = "https://script.google.com/macros/s/AKfycbyX9lsvDTMzTPzCo2D
     ev.preventDefault(); err.style.display = 'none';
     if (f.company.value) return; // honeypot
     var place = f.querySelector('[name="place"]');
+    var pref = f.querySelector('select[name="pref"]'), city = f.querySelector('[name="city"]');
+    if (pref && city && place) { if (!pref.value || !city.value.trim()) { err.textContent = '都道府県と市区町村をご入力ください。'; err.style.display = 'block'; return; } place.value = pref.value + city.value.trim(); }
     if (!f.name.value.trim() || !f.tel.value.trim() || !f.email.value.trim() || (place && !place.value.trim())) { err.textContent = '必須の項目をご入力ください。'; err.style.display = 'block'; return; }
     if (!f.consent.checked) { err.textContent = '同意のチェックをお願いします。'; err.style.display = 'block'; return; }
     f.consent_at.value = new Date().toISOString();
